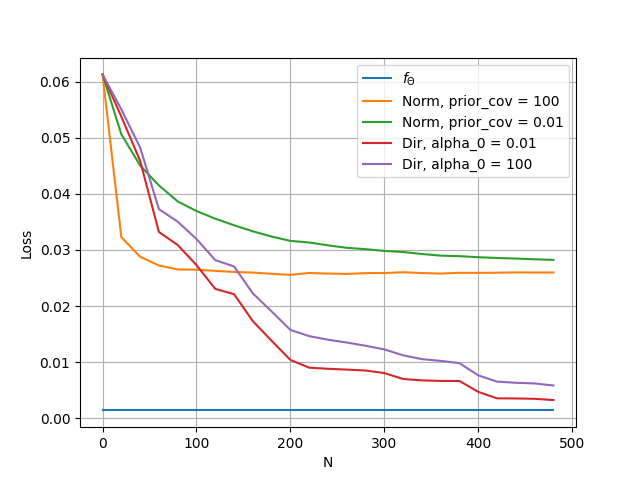
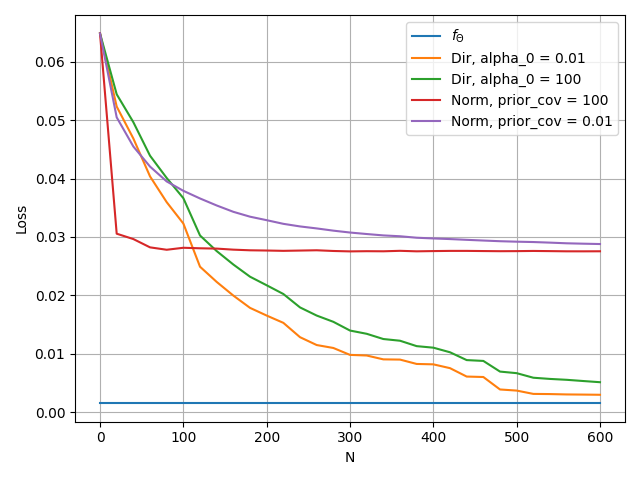
SSP WIP

diff --git a/Documentation/Regression Dir Finite/Regression Dir Finite.tex b/Documentation/Regression Dir Finite/Regression Dir Finite.tex
@@ -333,9 +333,9 @@ and
 %lambda__{\text{Bias}}(x) & = & \Erm_{\uppsim(x) | \upthetam(x)}\left[ \left(\frac{\alpha_0 \alpham(x)}{\alpha_0 \alpham(x) + N \uppsim(x)}\right)^2 \right] \;.
 %\end{IEEEeqnarray}
 
-The first function is dependent on the squared bias between the clairvoyant estimate $\mu_{\yrm | \xrm,\upthetac}$ and the data-independent estimate $\mu_{\yrm | \xrm}$. The second function depends on $\Sigma_{\yrm | \xrm,\upthetac}$ and measures the estimator variance in excess of the clairvoyant squared-error $\Rcal_{\Theta}^*(\uptheta)$.
-
-Both functions are scaled by factors dependent on the conditional prior localizations $\alpha_0 \alpham(x)$ and on $\upthetam(x)$ and $N$ via expectations with respect to $\Prm_{\uppsim(x) | \upthetam(x)}$. By the aggregation property of empirical distributions, $N \uppsim(x) | \upthetam(x) \sim \Bi\big(N,\upthetam(x)\big)$ is binomially distributed. Closed-forms have not been found for the empirical process expectations in \eqref{eq:bias} and \eqref{eq:var}.
+The first function is dependent on the squared bias between the clairvoyant estimate $\mu_{\yrm | \xrm,\upthetac}$ and the data-independent estimate $\mu_{\yrm | \xrm}$. The second function depends on $\Sigma_{\yrm | \xrm,\upthetac}$ and measures the estimator variance in excess of the clairvoyant squared-error $\Rcal_{\Theta}^*(\uptheta)$. Both functions are scaled by factors dependent on the conditional prior localizations $\alpha_0 \alpham(x)$ and on $\upthetam(x)$ and $N$ via expectations with respect to $\Prm_{\uppsim(x) | \upthetam(x)}$. 
+%By the aggregation property of empirical distributions, $N \uppsim(x) | \upthetam(x) \sim \Bi\big(N,\upthetam(x)\big)$ is binomially distributed. 
+Closed-forms have not been found for the empirical process expectations in \eqref{eq:bias} and \eqref{eq:var}.
 
 
 
@@ -358,8 +358,31 @@ Consider the trends of the excess squared-error risk \eqref{eq:risk_cond_SE_dir_
 %\label{fig:Risk_cond_SE_Dir_N_leg_a0_unbiased}
 %\end{figure}
 
+Next consider the effects of the conditional prior localizations $\alpha'(x) \equiv \alpha_0 \alpham(x)$, which control a bias/variance risk trade-off. For maximal localization $\alpha'(x) \to \infty$, $\lambda_{\text{Bias}}(x) \to 1$ and $\lambda_{\text{Var}}(x) \to 0$. This is intuitive given that the estimator tends toward the data-independent solution. Conversely, for $\alpha'(x) \to 0$, $\lambda_{\text{Bias}}(x) \to \big( 1 - \upthetam(\xrm) \big)^N$ and $\lambda_{\text{Var}}(x) \to \Erm_{\uppsim(x) | \upthetam(x)}\left[ \big( N \uppsim(x) \big)^{-1} \right]$. Note that the variance weight is equivalent to the first inverse moment of a positive binomial random variable \cite{stephan}.
 
-To demonstrate the efficacy of this estimator, consider a data model where $\Xcal$ and $\Ycal$ are 128-point discretizations of the unit interval. The PMF $\thetam(x)$ is constant and $\thetac(y;x) = \Bi(128y; 128, \mu_{\yrm | \xrm,\uptheta}(x))$, where $\mu_{\yrm | \xrm,\uptheta}(x) = 1 / \big(2 + \sin(2\pi x)\big)$. Figure \ref{fig:Risk_cond_SE_N_biased_hard} compares the Dirichlet-based estimator to the clairvoyant estimator $f_{\Theta}(\xrm;\uptheta) = \mu_{\yrm | \xrm,\uptheta}$, as well as to a Bayesian linear regressor using a Gaussian prior \cite{theodoridis-ML}. Note that only the Dirichlet estimator can achieve zero excess risk.
+The values $\alpha'(x)$ that minimize the excess squared-error for given prior conditional distributions $\alphac(x)$ are of interest. Calculating the first derivative, it can be shown that (for $N > 0$ and $\thetam(x) > 0$) only one stationary point exists, at 
+\begin{equation} \label{eq:alpha_x_min_Rex}
+\alpha'(\xrm) = \frac{\Sigma_{\yrm | \xrm,\upthetac}}{\left( \mu_{\yrm | \xrm} - \mu_{\yrm | \xrm,\upthetac} \right)^2} \;.
+\end{equation}
+This can readily be shown to be the global minimum.
+%Evaluation of the second derivative confirms the local minimum and comparison of the local risk value to the $\alpha'(x) \to 0$ and $\alpha'(x) \to \infty$ values confirms the global minimum.
+
+Note that the minimizing localization values $\alpha'(x)$ are inversely proportional to the squared-bias of the prior conditional mean. This is sensible - the better the match between the true and prior predictive distributions, the more confidence should be expressed. Also, low localizations are preferable when the conditional models have low variance; these models can be accurately identified by learners that emphasize the empirical mean, even with limited training data. 
+
+
+\section{Examples}
+To demonstrate the efficacy of Dirichlet prior regressors, consider a data model where $\Xcal$ and $\Ycal$ are 128-point discretizations of the unit interval. The PMF $\thetam$ is uniform and $\thetac(y;x) = \Bi(128y; 128, \mu_{\yrm | \xrm,\uptheta}(x))$, where the clairvoyant regressor $\mu_{\yrm | \xrm,\uptheta}(x) = 1 / \big(2 + \sin(2\pi x)\big)$. The Dirichlet estimator has $\alphac(y;x) = \Bi(128y; 128, 0.5)$. For comparison, a Bayesian linear regressor using a Gaussian prior $\Ncal\big([0, 0.5], \sigma^2_{\uptheta} \bm{I}\big)$ and $\sigma^2_{\yrm | \xrm}$ is evaluated, as well \cite{theodoridis-ML}.
+
+Figure \ref{fig:Predict_SE_biased_hard_comp_2} 
+
+Figure \ref{fig:Risk_cond_SE_N_biased_hard} compares the Dirichlet-based estimator.... Note that only the Dirichlet estimator can achieve zero excess risk with sufficient data.
+
+\begin{figure}
+\centering
+\includegraphics[width=1\linewidth]{SSP_2021/Predict_SE_biased_hard_comp_2.png}
+\caption{Estimator statistics}
+\label{fig:Predict_SE_biased_hard_comp_2}
+\end{figure}
 
 \begin{figure}
 \centering
@@ -368,17 +391,11 @@ To demonstrate the efficacy of this estimator, consider a data model where $\Xca
 \label{fig:Risk_cond_SE_N_biased_hard}
 \end{figure}
 
-Next consider the effects of the conditional prior localizations $\alpha'(x) \equiv \alpha_0 \alpham(x)$, which control a bias/variance risk trade-off. For maximal localization $\alpha'(x) \to \infty$, $\lambda_{\text{Bias}}(x) \to 1$ and $\lambda_{\text{Var}}(x) \to 0$. This is intuitive given that the estimator tends toward the data-independent solution. Conversely, for $\alpha'(x) \to 0$, $\lambda_{\text{Bias}}(x) \to \big( 1 - \upthetam(\xrm) \big)^N$ and $\lambda_{\text{Var}}(x) \to \Erm_{\uppsim(x) | \upthetam(x)}\left[ \big( N \uppsim(x) \big)^{-1} \right]$. Note that the variance weight is equivalent to the first inverse moment of a positive binomial random variable \cite{stephan}. 
 
 
-Of primary interest are the values $\alpha'(x)$ that minimize the excess squared-error for given prior conditional distributions $\alphac(x)$. Calculating the first derivative, it can be shown that (for $N > 0$ and $\thetam(x) > 0$) only one stationary point exists, 
-\begin{equation} \label{eq:alpha_x_min_Rex}
-\alpha'(\xrm) = \frac{\Sigma_{\yrm | \xrm,\upthetac}}{\left( \mu_{\yrm | \xrm} - \mu_{\yrm | \xrm,\upthetac} \right)^2} \;.
-\end{equation}
-Evaluation of the second derivative confirms the local minimum and comparison of the local risk value to the $\alpha'(x) \to 0$ and $\alpha'(x) \to \infty$ values confirms the global minimum.
 
 
-Note that the minimizing localization values $\alpha'(x)$ are inversely proportional to the squared-bias of the prior conditional mean. This is sensible - the better the match between the true and prior predictive distributions, the more confidence should be expressed. Also, low localizations are preferable when the conditional models have low variance; these models can be accurately identified by learners that emphasize the empirical mean, even with limited training data. These trends are demonstrated in Figure  \ref{fig:Risk_cond_SE_Dir_a0_leg_N_biased} for a biased prior distribution with $\alphac(y;x) = \Bi(256y;255,0.75)$.
+These trends are demonstrated in Figure \ref{fig:Risk_cond_SE_Dir_a0_leg_N_biased} for a biased prior distribution with $\alphac(y;x) = \Bi(256y;255,0.75)$.
 %\begin{figure}
 %	\centering
 %	\includegraphics[width=0.9\linewidth]{Risk_cond_SE_Dir_a0_leg_N_unbiased.pdf}

diff --git a/Code/PGR_thesis/main.py b/Code/PGR_thesis/main.py
@@ -15,6 +15,7 @@ from thesis.preprocessing import discretizer
 from thesis.util import spaces
 
 # plt.style.use('seaborn')
+# plt.style.use(['science'])
 
 
 #%% Sim
@@ -96,28 +97,28 @@ dir_predictor = BayesRegressor(bayes_models.Dirichlet(prior_mean, alpha_0=10), p
 # dir_params = None
 # dir_params = {'alpha_0': [2, 16]}
 # dir_params = {'alpha_0': [.1, 50]}
-# dir_params = {'alpha_0': [.01, 100]}
-dir_params = {'alpha_0': [.01]}
+dir_params = {'alpha_0': [.01, 100]}
+# dir_params = {'alpha_0': [.01]}
 # dir_params = {'alpha_0': 1e-6 + np.linspace(0, 20, 100)}
 # dir_params = {'alpha_0': 1e-6 + np.concatenate((np.linspace(0, 10, 100), np.linspace(10, 50, 10)))}
 
 
 # Normal learner
-norm_predictor = BayesRegressor(bayes_models.NormalLinear(prior_mean=w_prior, prior_cov=10 * np.eye(len(w_prior)),
+norm_predictor = BayesRegressor(bayes_models.NormalLinear(prior_mean=w_prior, prior_cov=100 * np.eye(len(w_prior)),
                                                           basis_y_x=None, cov_y_x=.1,
                                                           model_x=prior_mean.model_x), name='Norm')
 
 # norm_params = None
 # norm_params = {'prior_cov': [10, 0.05]}
-# norm_params = {'prior_cov': [100, .01]}
-norm_params = {'prior_cov': [100]}
+norm_params = {'prior_cov': [100, .01]}
+# norm_params = {'prior_cov': [100]}
 
 
 # Plotting
 
-n_train = 200
+# n_train = 250
 # n_train = [0, 10, 100]
-# n_train = np.arange(0, 500, 20)
+n_train = np.arange(0, 620, 20)
 
 # print(dir_predictor.risk_eval_sim(model, dir_params, n_train, n_test=1, n_mc=20000, verbose=True, rng=None))
 # dir_predictor.plot_risk_eval_sim(model, dir_params, n_train, n_test=1, n_mc=5000, verbose=True, rng=None)
@@ -135,12 +136,12 @@ predictors, params = list(zip(*temp))
 # TODO: save fig
 # TODO: redo SSP p_dir fig
 
-# plot_risk_eval_sim_compare(predictors, model_eval, params, n_train=n_train, n_test=1, n_mc=200,
-#                            verbose=True, ax=None, rng=None)
+plot_risk_eval_sim_compare(predictors, model_eval, params, n_train=n_train, n_test=1, n_mc=400,
+                           verbose=True, ax=None, rng=None)
 # plot_risk_eval_comp_compare(predictors, model_eval, params, n_train, n_test=1, verbose=False, ax=None)
 
-plot_predict_stats_compare(predictors, model_eval, params, x=None, n_train=n_train, n_mc=200,
-                           do_std=True, verbose=True, ax=None, rng=None)
+# plot_predict_stats_compare(predictors, model_eval, params, x=None, n_train=n_train, n_mc=200,
+#                            do_std=True, verbose=True, ax=None, rng=None)
 
 
 # print(f"\nAnalytical Risk = {opt_predictor.evaluate_comp(n_train=n_train)}")
